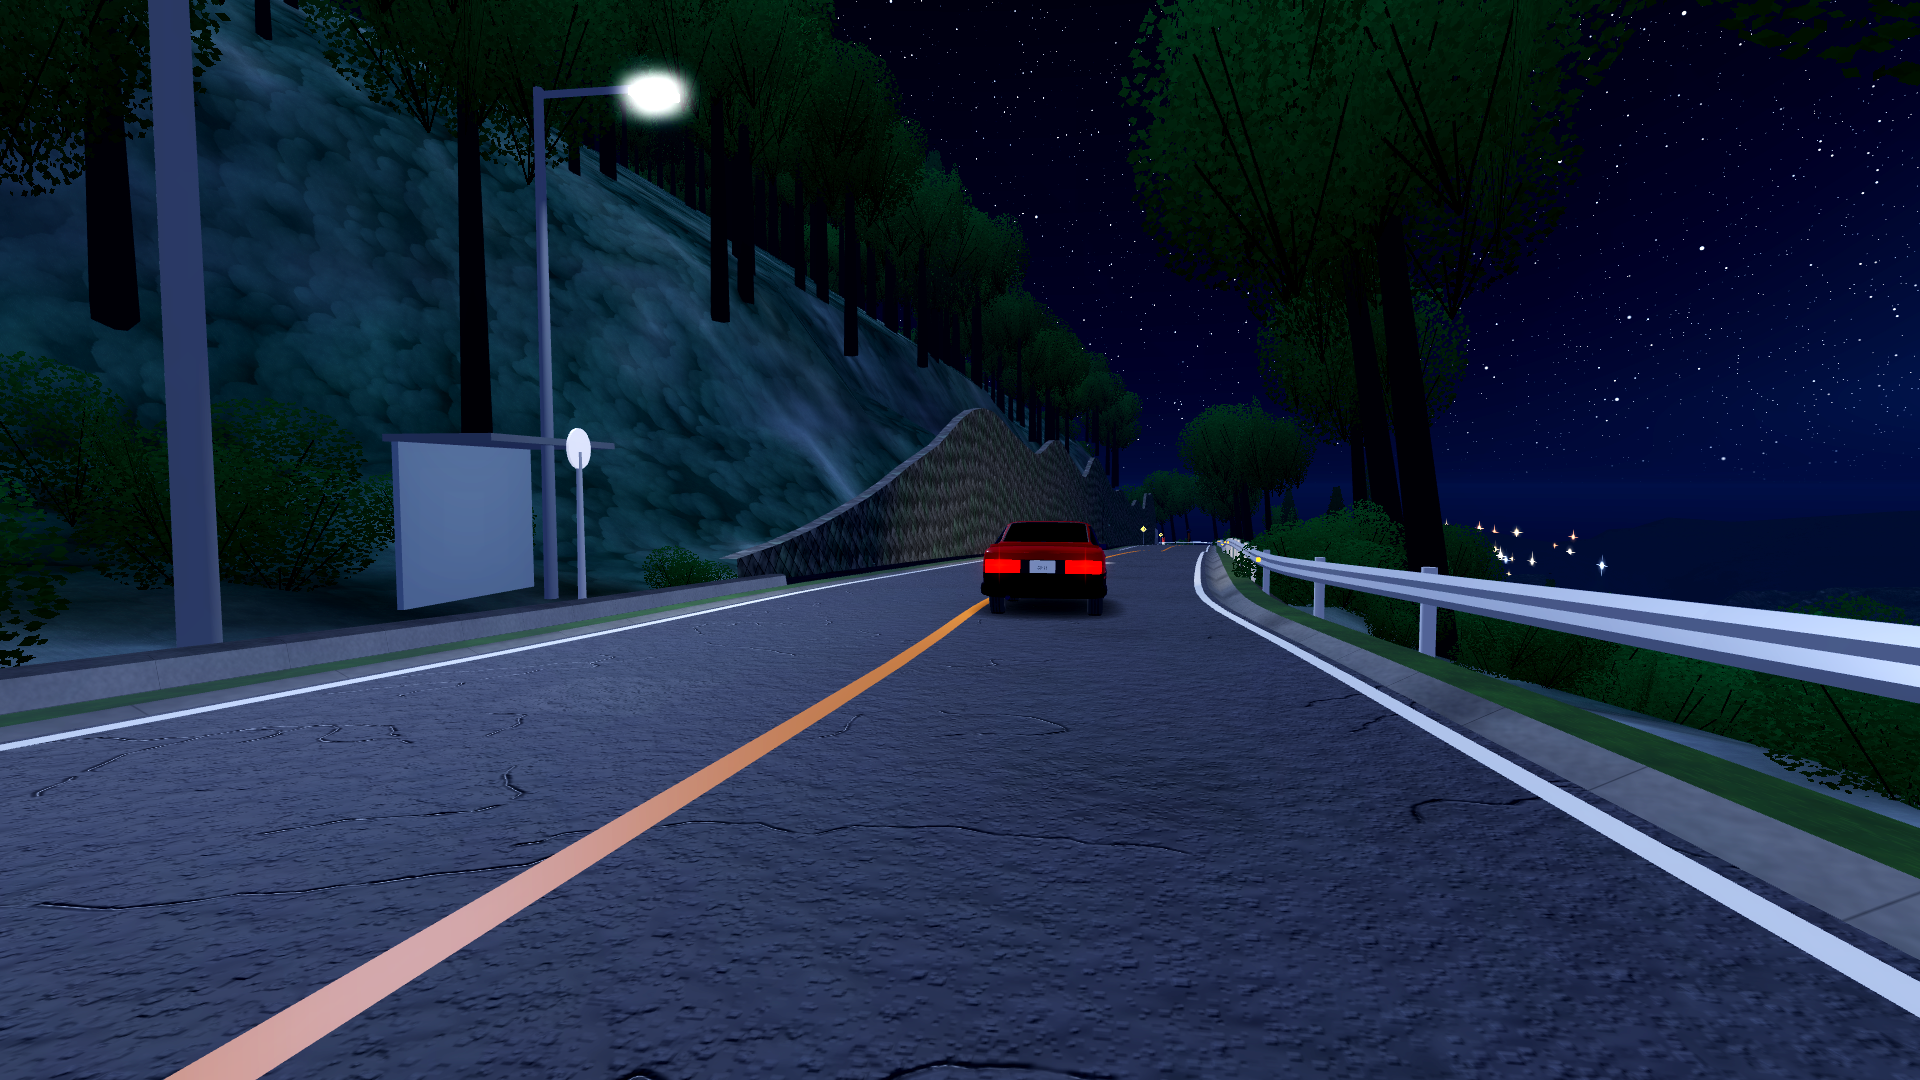
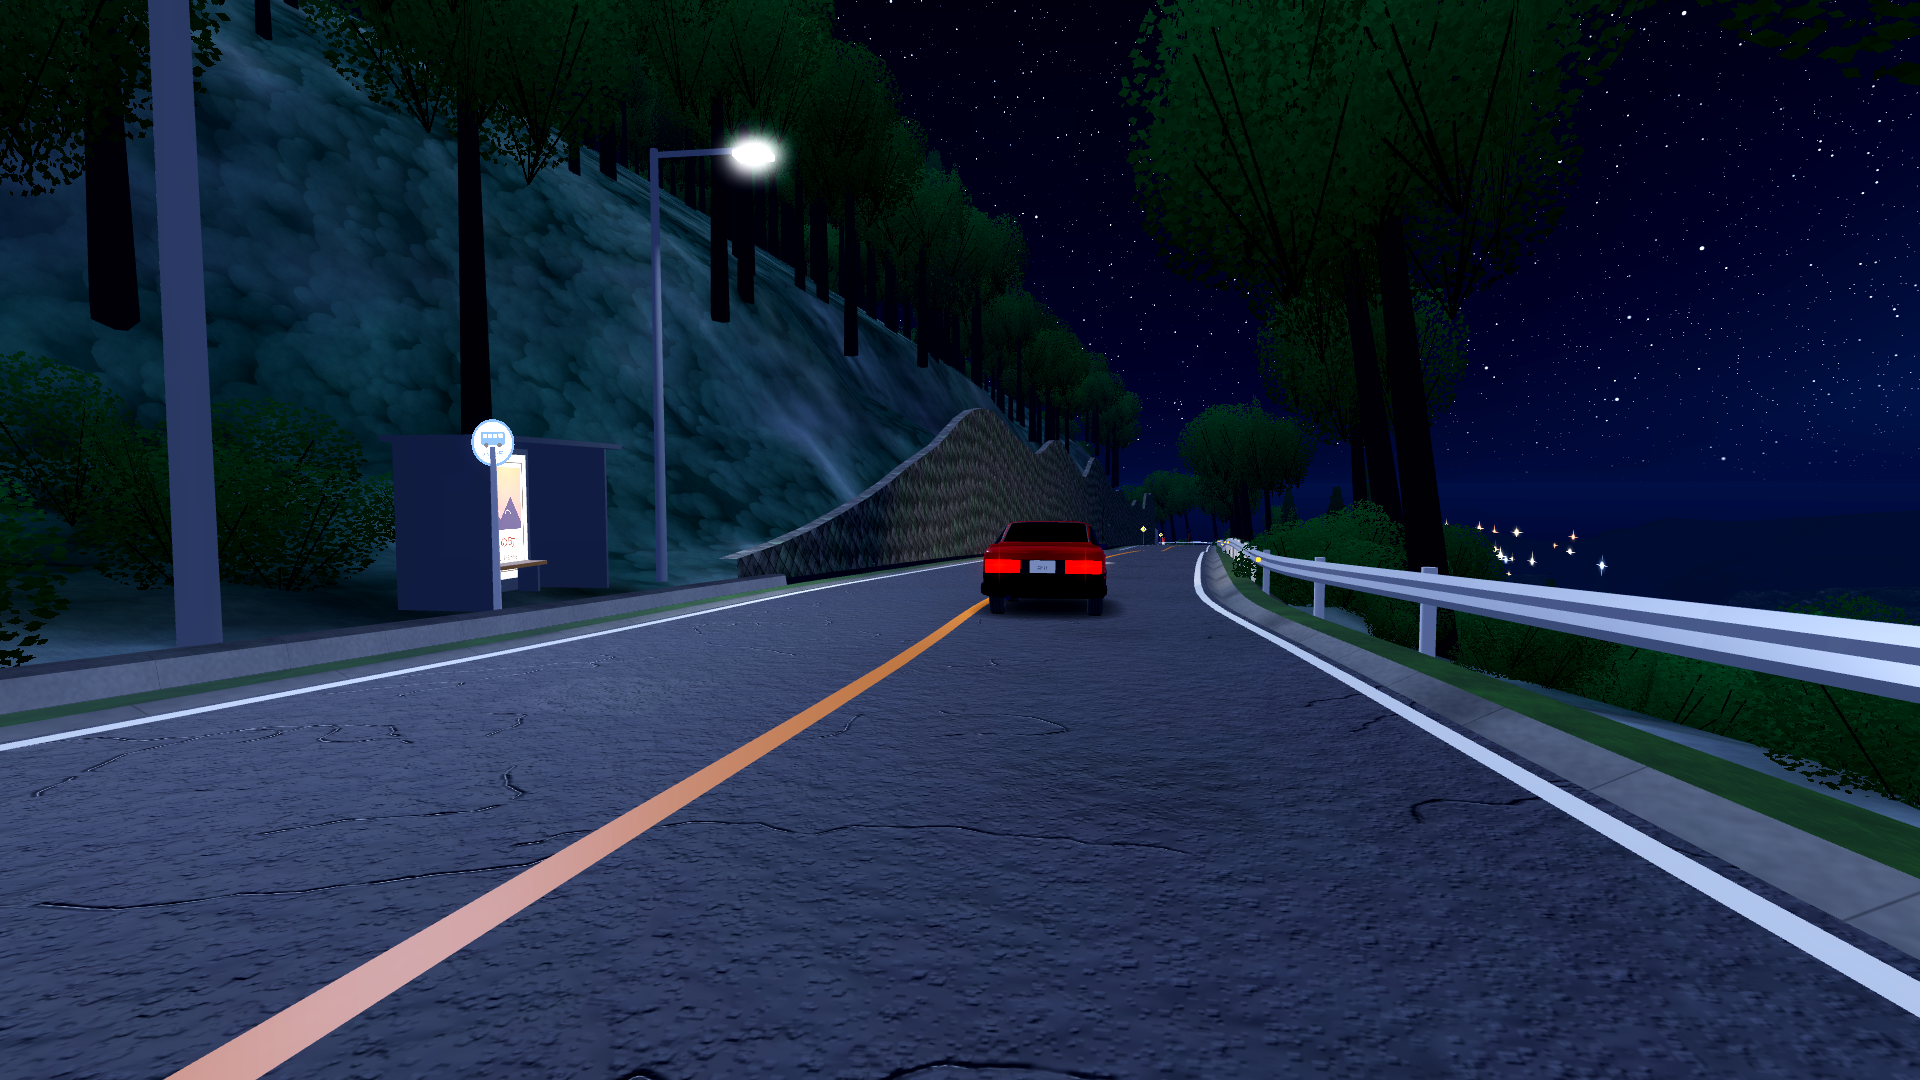
Bus stops: real shelter with timetable/poster panel, bench and a round stop sign; lamps, bus stops and vending machines only go where nothing already stands
Claude-Session: https://claude.ai/code/session_01LLcQYzyEQizYewCt6b7etJ

Changed region(s): [[0.1875, 0.1528, 0.375, 0.5806], [0.2812, 0.0611, 0.4375, 0.1833], [0.25, 0.0917, 0.2812, 0.1222]]

diff --git a/tools/make_textures.py b/tools/make_textures.py
@@ -288,6 +288,71 @@ def masonry():
     save("masonry.png", np.stack([r, g, b], -1) * 255)
 
 
+JP = "/usr/share/fonts/opentype/ipafont-gothic/ipag.ttf"
+
+
+def _font(size):
+    from PIL import ImageFont
+    return ImageFont.truetype(JP, size)
+
+
+def bus_stop_sign():
+    """Round bus-stop plate: white face, blue ring, a simple bus pictogram and
+    the words "bus stop". Original design; transparent outside the disc."""
+    n = 256
+    img = Image.new("RGBA", (n, n), (0, 0, 0, 0))
+    d = ImageDraw.Draw(img)
+    d.ellipse([4, 4, n - 5, n - 5], fill=(30, 70, 160, 255))
+    d.ellipse([18, 18, n - 19, n - 19], fill=(245, 245, 240, 255))
+    # bus: body, windows, wheels
+    d.rounded_rectangle([60, 70, 196, 140], radius=12, fill=(30, 70, 160, 255))
+    for k in range(4):
+        x = 72 + k * 30
+        d.rectangle([x, 80, x + 22, 102], fill=(245, 245, 240, 255))
+    d.ellipse([78, 128, 102, 152], fill=(20, 20, 25, 255))
+    d.ellipse([154, 128, 178, 152], fill=(20, 20, 25, 255))
+    f = _font(40)
+    d.text((n / 2, 186), "バス停", fill=(30, 70, 160, 255), font=f, anchor="mm")
+    img.save(os.path.join(OUT, "bus_stop_sign.png"))
+    print("wrote bus_stop_sign.png")
+
+
+def shelter_panel():
+    """Back panel of a mountain bus shelter: a timetable board on the left and
+    a faded local poster on the right. Original design."""
+    w, h = 512, 384
+    img = Image.new("RGB", (w, h), (196, 198, 194))
+    d = ImageDraw.Draw(img)
+    # timetable board
+    d.rectangle([20, 24, 232, 360], fill=(250, 250, 246), outline=(60, 60, 70), width=4)
+    d.rectangle([20, 24, 232, 70], fill=(30, 70, 160))
+    d.text((126, 47), "時刻表", fill=(255, 255, 255), font=_font(30), anchor="mm")
+    f = _font(18)
+    times = ["6", "7", "8", "9", "11", "13", "15", "17", "18", "20"]
+    for k, hr in enumerate(times):
+        y = 84 + k * 27
+        d.text((34, y), hr, fill=(30, 30, 40), font=f)
+        mins = ["05", "32"] if k % 3 else ["15"]
+        d.text((84, y), "  ".join(mins), fill=(40, 40, 50), font=f)
+        d.line([28, y + 24, 224, y + 24], fill=(200, 200, 205), width=1)
+    # poster: hot-spring town at dusk (original)
+    d.rectangle([260, 24, 492, 360], fill=(242, 236, 222), outline=(90, 80, 70), width=3)
+    for y in range(40, 230):
+        t = (y - 40) / 190
+        col = (int(250 - 60 * t), int(170 - 40 * t), int(110 + 30 * t))
+        d.line([272, y, 480, y], fill=col)
+    d.polygon([(272, 230), (330, 150), (380, 200), (430, 130), (480, 210), (480, 230)], fill=(70, 60, 90))
+    for k in range(3):
+        x = 300 + k * 50
+        d.arc([x, 170, x + 30, 210], 200, 340, fill=(255, 255, 255), width=3)    # steam
+    d.text((376, 270), "温泉の町", fill=(120, 40, 30), font=_font(36), anchor="mm")
+    d.text((376, 318), "山を下りて ひと休み", fill=(80, 60, 50), font=_font(18), anchor="mm")
+    # weathering
+    arr = np.asarray(img, dtype=float)
+    arr *= (0.88 + 0.12 * tile_noise(512, 8, 3, 71)[:h, :w, None])
+    save("shelter_panel.png", arr)
+
+
 if __name__ == "__main__":
     asphalt()
     ground()
@@ -298,3 +363,5 @@ if __name__ == "__main__":
     cedar()
     canopy()
     masonry()
+    bus_stop_sign()
+    shelter_panel()
